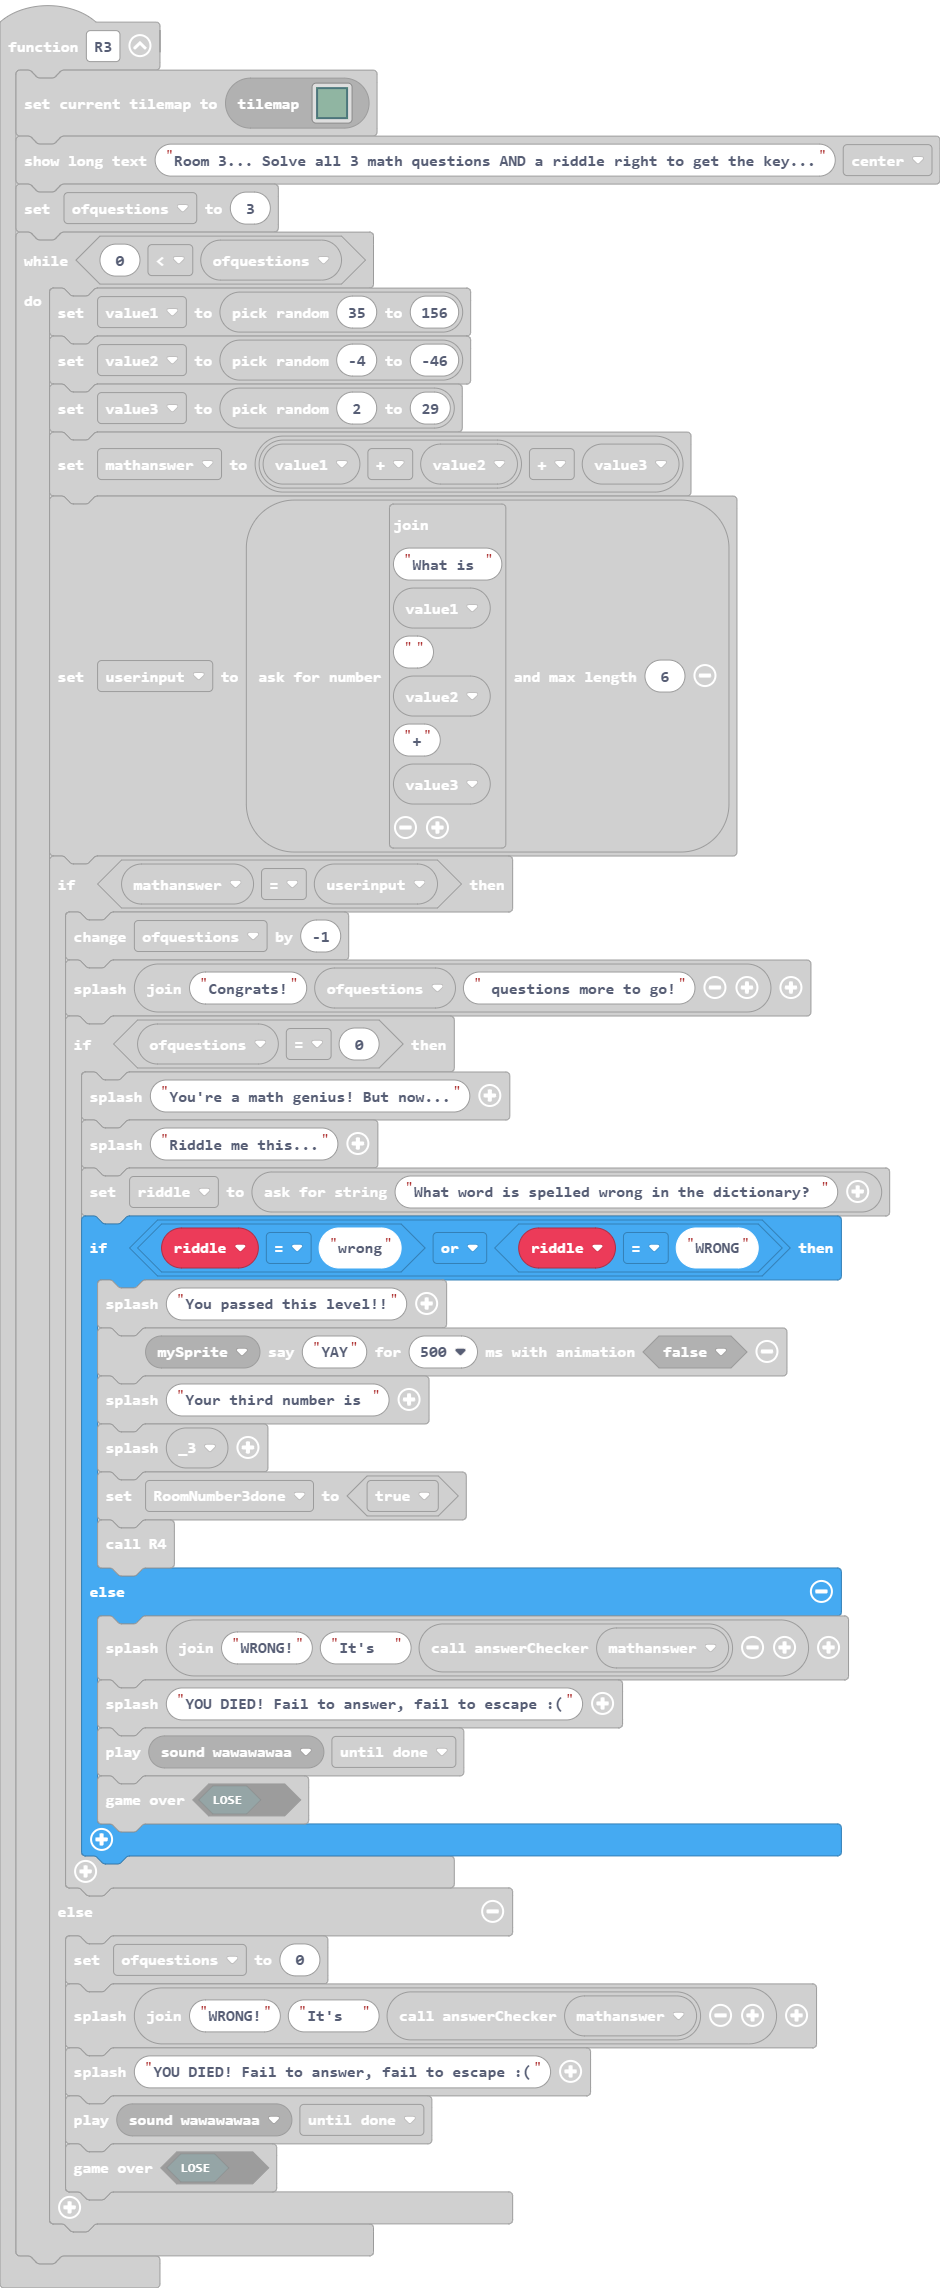
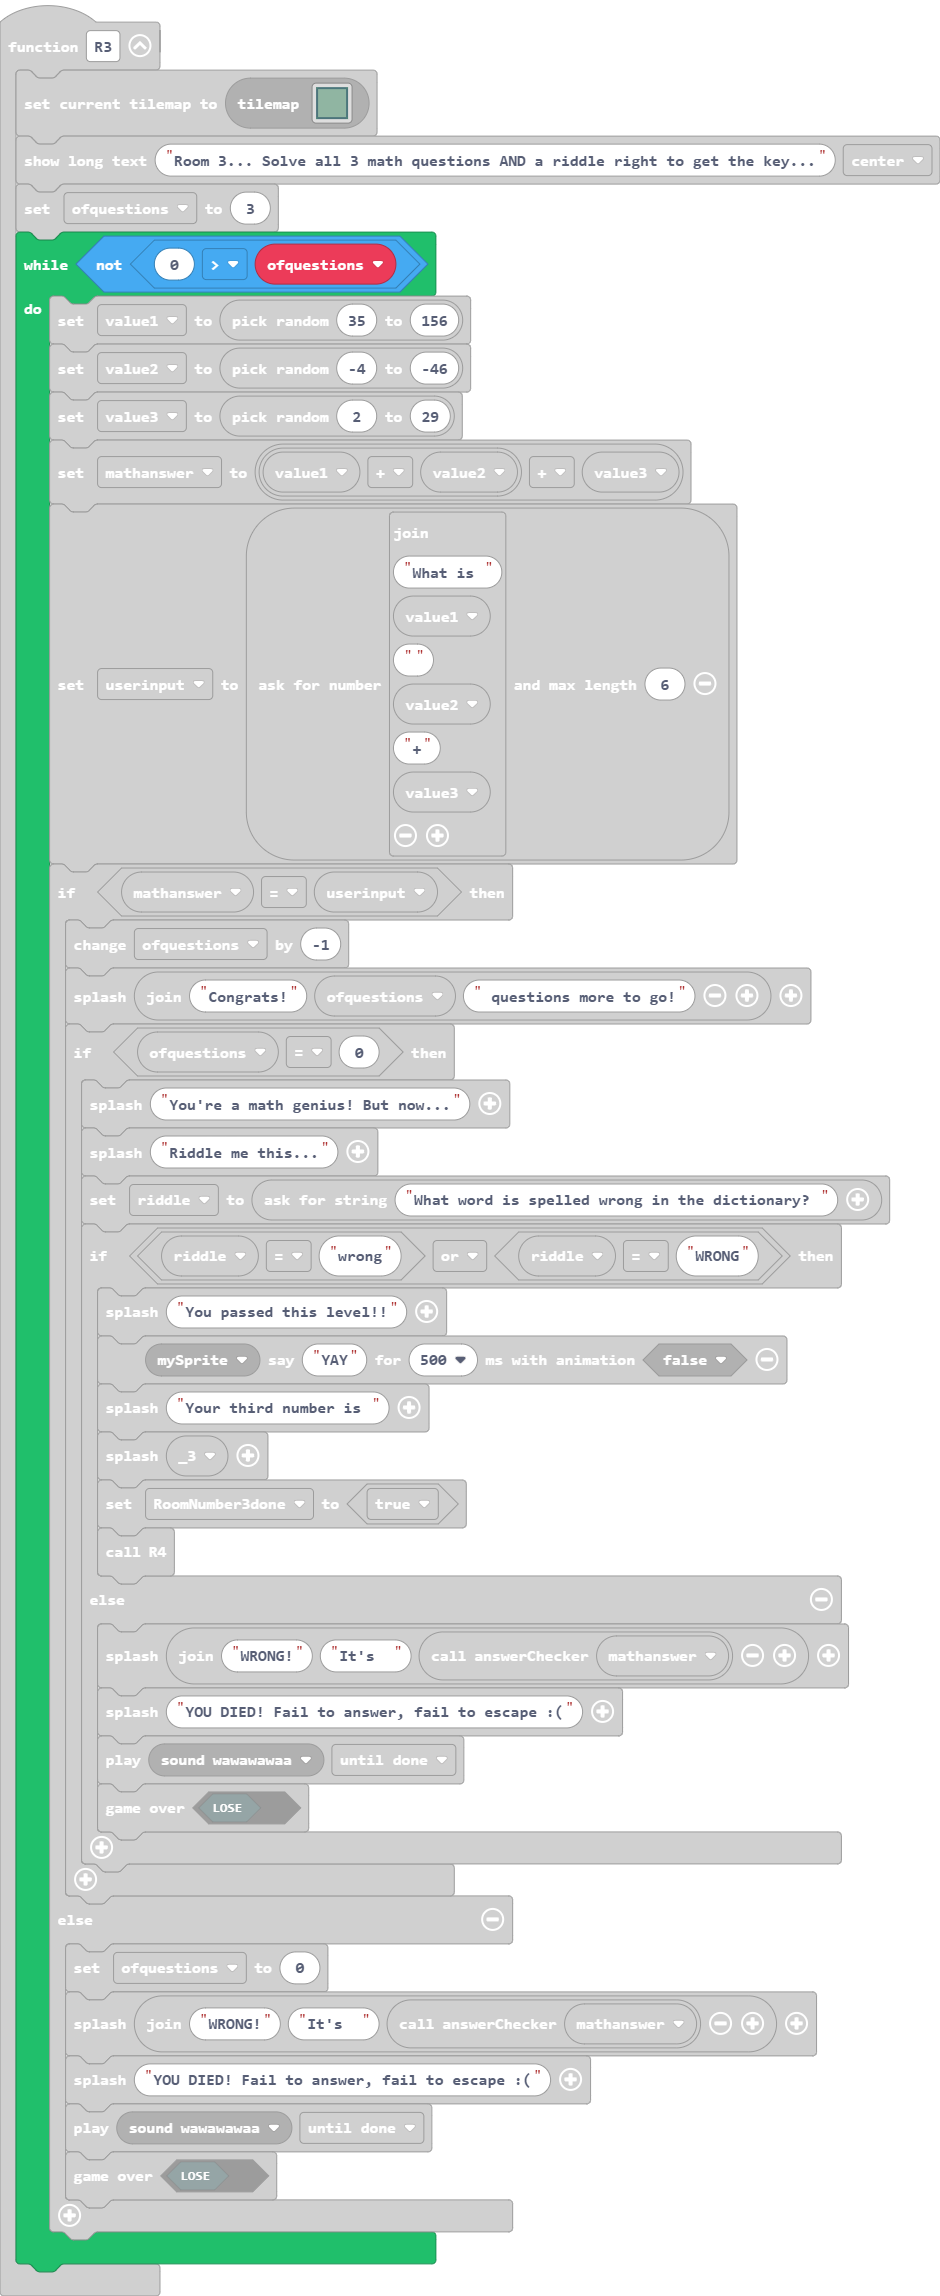
last

diff --git a/main.ts b/main.ts
@@ -153,7 +153,7 @@ function R3 () {
     tiles.loadMap(tiles.createMap(tilemap`level8`))
     game.showLongText("Room 3... Solve all 3 math questions AND a riddle right to get the key...", DialogLayout.Center)
     ofquestions = 3
-    while (0 < ofquestions) {
+    while (!(0 > ofquestions)) {
         value1 = randint(35, 156)
         value2 = randint(-4, -46)
         value3 = randint(2, 29)
